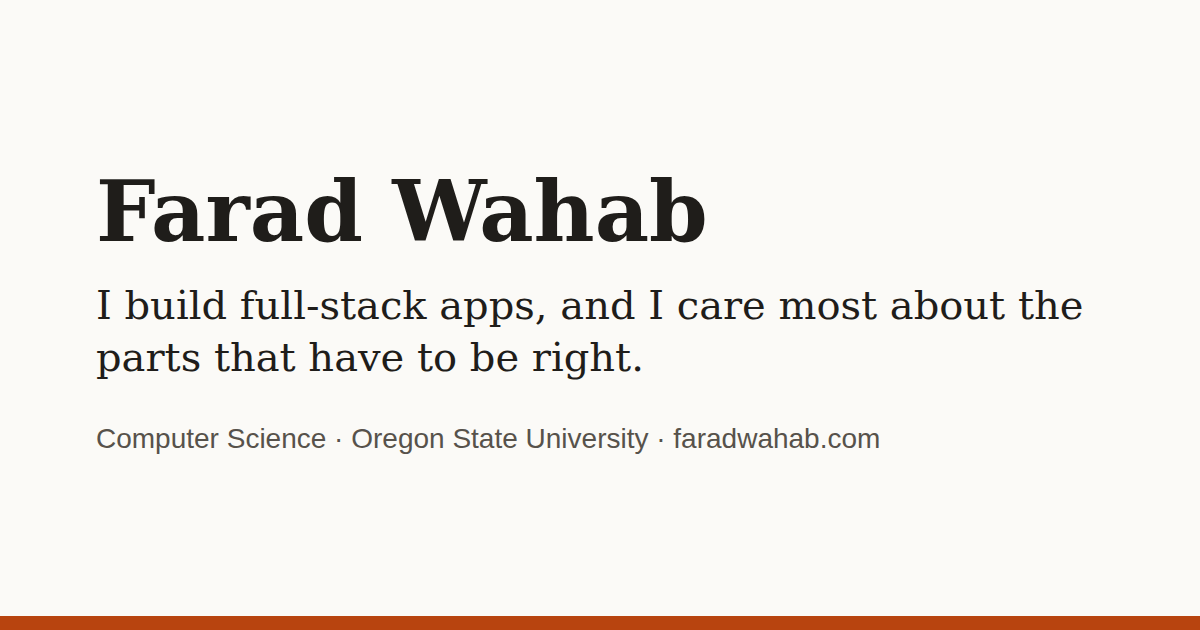
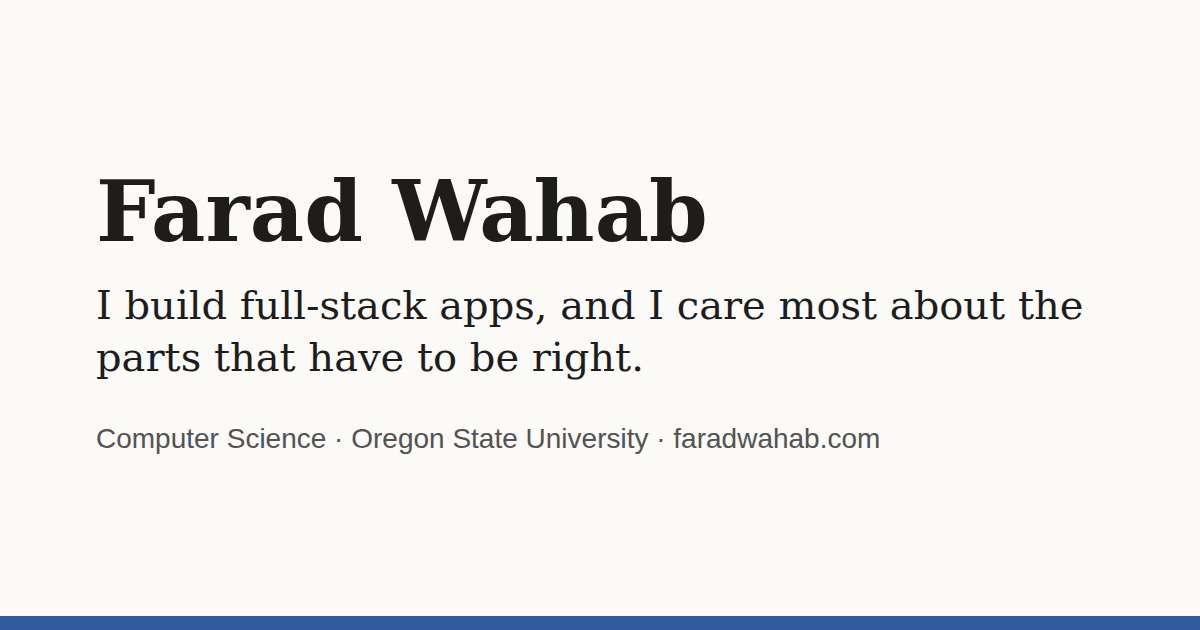
Make the site look less like a template
- Accent goes from burnt orange to a deep blue (#2f5a9e, #8fb4ec in dark
  mode). Orange on cream with serif headings read as Claude's own look.
  The icons and share images are recolored to match.
- The hero shows one real CivicScope screenshot (the census tract view)
  with a caption, instead of a fanned stack of three mock-ups.
- Remove the small "Interactive" label above the demo heading.
- Hide the made-up "Currently" pill until there's a real line for it.

Changed region(s): [[0.0, 0.9651, 1.0, 1.0]]

diff --git a/src/components/HeroShowcase.tsx b/src/components/HeroShowcase.tsx
@@ -2,34 +2,26 @@ import Image from "next/image";
 import Link from "next/link";
 import type { Project } from "@/content/projects";
 
-// Back to front. Each card fans out a little further on hover.
-const layers = [
-  "top-0 right-0 rotate-6 group-hover:translate-x-6 group-hover:rotate-9",
-  "top-16 right-10 rotate-1 group-hover:translate-x-1 group-hover:rotate-2",
-  "top-32 right-20 -rotate-4 group-hover:-translate-x-5 group-hover:-rotate-7",
-];
-
-export default function HeroShowcase({ projects }: { projects: Project[] }) {
-  const stack = projects.slice(0, 3).reverse();
+export default function HeroShowcase({ project }: { project: Project }) {
+  const hero = project.heroImage ?? { src: project.image, caption: project.title };
   return (
     <Link
-      href="/projects"
-      aria-label="See all projects"
-      className="group relative hidden h-[380px] motion-safe:animate-rise motion-safe:[animation-delay:250ms] lg:block"
+      href={`/projects/${project.slug}`}
+      className="group hidden motion-safe:animate-rise motion-safe:[animation-delay:250ms] lg:block"
     >
-      {stack.map((p, i) => (
-        <Image
-          key={p.slug}
-          src={p.image}
-          alt=""
-          width={1600}
-          height={1000}
-          sizes="380px"
-          loading="eager"
-          fetchPriority={i === stack.length - 1 ? "high" : undefined}
-          className={`absolute aspect-16/10 w-[82%] rounded-lg border border-line object-cover object-top shadow-xl shadow-black/10 transition-transform duration-500 ease-out motion-reduce:transition-none dark:brightness-90 ${layers[i]}`}
-        />
-      ))}
+      <Image
+        src={hero.src}
+        alt={`Screenshot of ${project.title}`}
+        width={1600}
+        height={1000}
+        sizes="560px"
+        loading="eager"
+        fetchPriority="high"
+        className="aspect-16/10 w-full rounded-lg border border-line object-cover object-top shadow-xl shadow-black/10 transition-transform duration-300 ease-out group-hover:-translate-y-1 motion-reduce:transition-none dark:brightness-90"
+      />
+      <p className="mt-3 text-small text-muted transition-colors duration-150 group-hover:text-ink">
+        {hero.caption} &rarr;
+      </p>
     </Link>
   );
 }

diff --git a/src/app/page.tsx b/src/app/page.tsx
@@ -49,7 +49,7 @@ export default function HomePage() {
             </p>
           )}
         </div>
-        <HeroShowcase projects={featuredProjects} />
+        <HeroShowcase project={lead} />
       </section>
 
       <section className="mt-20">
@@ -71,8 +71,7 @@ export default function HomePage() {
 
       <section className="mt-20 grid items-start gap-8 lg:grid-cols-[1fr_1.4fr] lg:gap-12">
         <div className="lg:sticky lg:top-24">
-          <p className="text-sm font-medium text-accent">Interactive</p>
-          <h2 className="mt-1 heading-2">The bug that taught me the most</h2>
+          <h2 className="heading-2">The bug that taught me the most</h2>
           <p className="mt-3 prose-body">
             My team&apos;s banking app passed every test and still lost money. Two transfers from
             the same account could read the same balance before either one saved. Step through it to

diff --git a/src/content/projects.ts b/src/content/projects.ts
@@ -16,6 +16,7 @@ export interface Project {
   stack: string[];
   links: { github?: string; live?: string; liveNote?: string };
   image: string;
+  heroImage?: { src: string; caption: string };
   video?: { webm: string; mp4: string; poster: string };
   metrics: { value: string; label: string }[];
   featured: boolean;
@@ -64,6 +65,10 @@ export const projects: Project[] = [
         "The data server sleeps when nobody is using it, so the first load can take about 30 seconds.",
     },
     image: "/images/projects/civicscope.png",
+    heroImage: {
+      src: "/images/projects/civicscope-tracts.png",
+      caption: "CivicScope: rent burden across 1,334 GTA census tracts",
+    },
     metrics: [
       { value: "1,334", label: "census tracts on the map" },
       { value: "1,244", label: "tracts with real CMHC construction data" },

diff --git a/src/content/site.ts b/src/content/site.ts
@@ -38,7 +38,7 @@ export const siteConfig: SiteConfig = {
   lookingFor: "a software engineering internship for summer 2027", // PLACEHOLDER
   location: "Corvallis, OR", // PLACEHOLDER
   availability: "Open to relocating or remote", // PLACEHOLDER
-  currently: "Adding a transposition table to my chess engine", // PLACEHOLDER: or null to hide
+  currently: null, // Set to a short real line, e.g. what you are building this month, to show it
   navLinks: [
     { label: "Projects", href: "/projects" },
     { label: "About", href: "/about" },

diff --git a/src/app/globals.css b/src/app/globals.css
@@ -7,7 +7,7 @@
   --muted: #57524b;
   --faint: #736d64;
   --line: #e4dfd6;
-  --accent: #b8440f;
+  --accent: #2f5a9e;
 }
 
 @media (prefers-color-scheme: dark) {
@@ -18,7 +18,7 @@
     --muted: #b3aca2;
     --faint: #8a847b;
     --line: #2e2b27;
-    --accent: #f08a4b;
+    --accent: #8fb4ec;
   }
 }
 
@@ -83,7 +83,7 @@
     --muted: #57524b;
     --faint: #736d64;
     --line: #e4dfd6;
-    --accent: #b8440f;
+    --accent: #2f5a9e;
     color-scheme: light;
   }
 }

diff --git a/src/app/projects/[slug]/opengraph-image.tsx b/src/app/projects/[slug]/opengraph-image.tsx
@@ -26,7 +26,7 @@ export default async function OpengraphImage({ params }: { params: Promise<{ slu
         justifyContent: "center",
         padding: "0 90px",
         background: "#fbfaf7",
-        borderBottom: "14px solid #b8440f",
+        borderBottom: "14px solid #2f5a9e",
         color: "#1f1d1a",
       }}
     >
